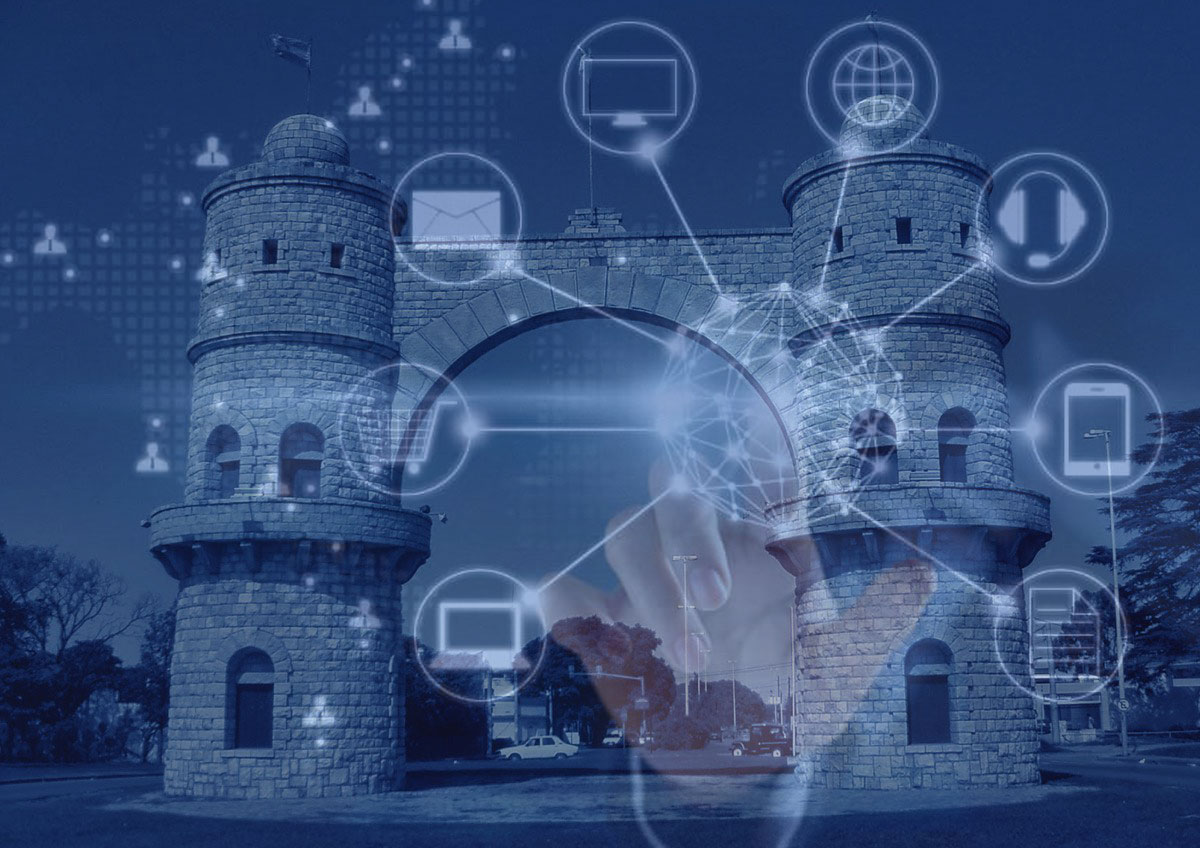
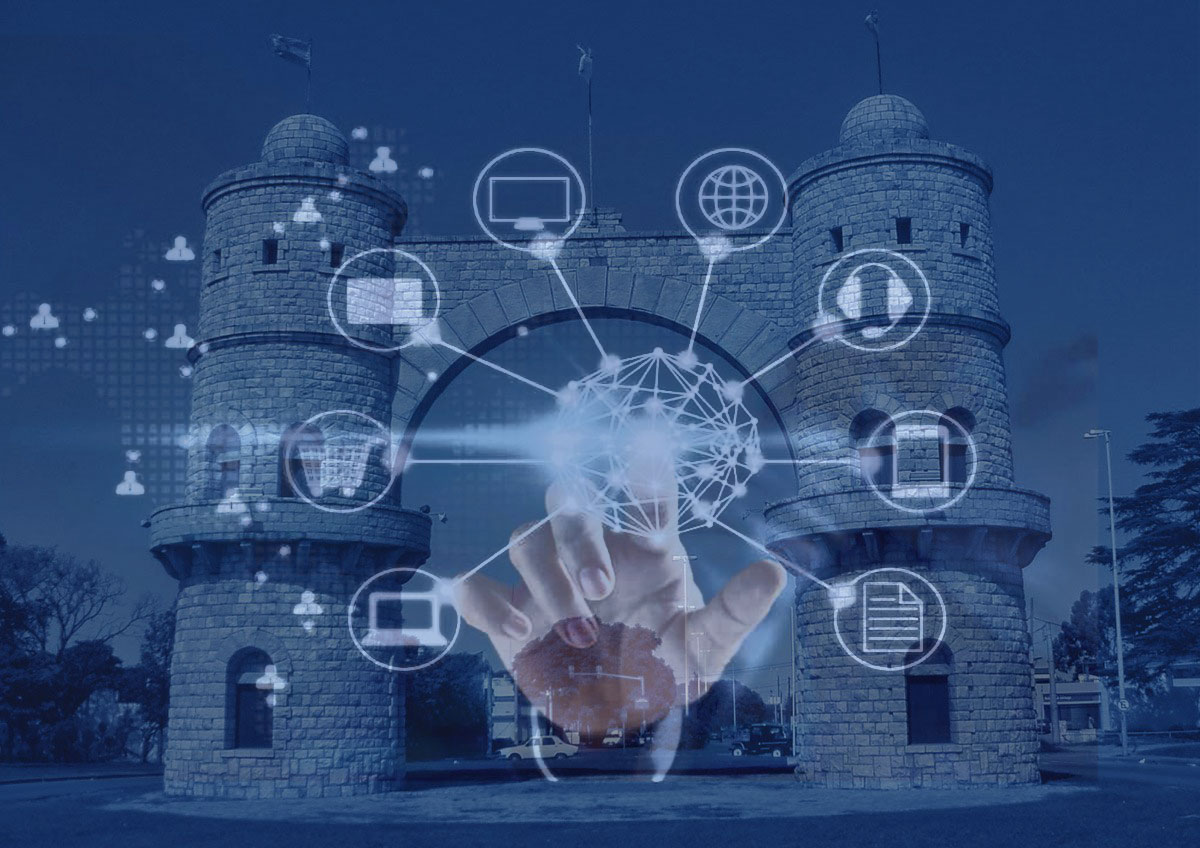
se modifico el icono principal

diff --git a/index.html b/index.html
@@ -19,14 +19,16 @@
         <!-- Navigation-->
         <nav class="navbar navbar-expand-lg navbar-light fixed-top" id="mainNav">
             <div class="container">
-                <a class="navbar-brand js-scroll-trigger" href="#page-top"><img class="img-icono" src="imagenes/icono3.png" alt=""></a>
+                <a class="navbar-brand js-scroll-trigger a-icono" href="#page-top"><img class="img-icono" src="imagenes/icono4.png" alt=""></a>
                 <button class="navbar-toggler navbar-toggler-right" type="button" data-toggle="collapse" data-target="#navbarResponsive" aria-controls="navbarResponsive" aria-expanded="false" aria-label="Toggle navigation">
                     Menu
                     <i class="fas fa-bars"></i>
                 </button>
                 <div class="collapse navbar-collapse" id="navbarResponsive">
                     <ul class="navbar-nav ml-auto">
-                        <li class="nav-item"><a class="nav-link js-scroll-trigger" href="#about">Nosotros</a></li>
+                        <li class="nav-item"><a class="nav-link js-scroll-trigger" href="#page-top">Inicio</a></li>
+                        <li class="nav-item"><a class="nav-link js-scroll-trigger" href="#planes">Nuestros Planes</a></li>
+                        <li class="nav-item"><a class="nav-link js-scroll-trigger" href="#about">Acerca de..</a></li>
                         <li class="nav-item"><a class="nav-link js-scroll-trigger" href="#projects">Nosotros</a></li>
                         <li class="nav-item"><a class="nav-link js-scroll-trigger" href="#signup">Contactos</a></li>
                     </ul>
@@ -36,10 +38,10 @@
         <!-- Masthead-->
         <header class="masthead">
             <div class="container d-flex h-100 align-items-center">
-                <div class="mx-auto text-center">
+                <div class="mx-auto text-center mt-5">
                     <h1 class="mx-auto my-0">CORDOBA WEB</h1>
-                    <h2 class="text-white-50 mx-auto mt-2 mb-5">- Diseño y Desarrollo de Paginas Web -</h2>
-                    <a class="btn btn-primary js-scroll-trigger mt-5" href="#planes"><h4>Nuestros Planes</h4></a>
+                    <h2 class="mx-auto mt-2 mb-5">- Diseño y Desarrollo de Paginas Web -</h2>
+                    <a class="btn btn-primary js-scroll-trigger" href="#planes"><h4>Nuestros Planes</h4></a>
                 </div>
             </div>
         </header>
@@ -101,7 +103,7 @@
                             <div class="d-flex h-100">
                                 <div class="project-text w-100 my-auto text-center text-lg-right">
                                     <h4 class="text-white">La primera Impresión...</h4>
-                                    <p class="mb-0 text-white">El sitio web es la presentación de la empresa que gestionas en los medios digitales. Cada vez que un posible cliente nuevo acude a tu empresa, te preocupas hacer una buena primera impresión. Bueno, con tu sitio web, la situación no es diferente. Debe ser un reflejo inmediato del negocio.</p>
+                                    <p class="mb-0 text-white">Tu pagina web es la presentación de la empresa que gestionas en los medios digitales. Cada vez que un posible cliente nuevo acude a tu empresa, te preocupas de dar una buena primera impresión. Bueno, con tu pagina web, la situación no es diferente. Debe ser un reflejo inmediato del negocio.</p>
                                     <hr class="d-none d-lg-block mb-0 mr-0" />
                                 </div>
                             </div>
@@ -133,7 +135,7 @@
                             <div class="d-flex h-100">
                                 <div class="project-text w-100 my-auto text-center text-lg-right">
                                     <h4 class="text-white">Diseño web responsive</h4>
-                                    <p class="mb-0 text-white">Los sitios que realizamos son compatibles para todos los navegadores y todas las plataformas. Tus paginas web se verán de manera correcta, con un diseño único y se adaptará a la plataforma en la que se visualice ya sea un smartphone, tablet, ultrabook, etc, Manteniendo el mejor diseño y toda la funcionalidad
+                                    <p class="mb-0 text-white">Las paginas web que realizamos son compatibles con todos los navegadores y todas las plataformas. Tu pagina web se verá de manera correcta, con un diseño único y se adaptará a la plataforma en la que se visualice ya sea un smartphone, tablet, ultrabook, etc, Manteniendo el mejor diseño y toda la funcionalidad.
                                          </p>
                                     <hr class="d-none d-lg-block mb-0 mr-0" />
                                 </div>

diff --git a/css/styles.css b/css/styles.css
@@ -2462,7 +2462,7 @@ fieldset:disabled a.btn {
 }
 
 .btn-primary {
-  margin-top: 60px;
+  margin-top: 250px;
   color: rgb(0, 0, 0);
   background-color: #688ef7b0;
   border-color: #f3f7f6cb;
@@ -10240,7 +10240,7 @@ body {
   height: auto;
   min-height: 35rem;
   padding: 15rem 0;
-  background: linear-gradient(to bottom, rgba(0, 0, 0, 0.3) 0%, rgba(0, 0, 0, 0.7) 75%, #000000 100%),
+  background: linear-gradient(to bottom, rgba(27, 27, 27, 0.3) 0%, rgba(27, 27, 27, 0.7) 75%, #131313 100%),
    url("../imagenes/portada/Cordoba7.jpg");
   background-position: center;
   background-repeat: no-repeat;
@@ -10253,7 +10253,7 @@ body {
   font-size: 2.5rem;
   line-height: 2.5rem;
   letter-spacing: 0.8rem;
-  background: linear-gradient(rgba(255, 255, 255, 0.9), rgba(255, 255, 255, 0));
+  background: linear-gradient(rgba(255, 255, 255, 0.95), rgba(255, 255, 255, 0.301));
   -webkit-text-fill-color: transparent;
   -webkit-background-clip: text;
           background-clip: text;
@@ -10261,6 +10261,11 @@ body {
 .masthead h2 {
   max-width: 20rem;
   font-size: 2.5rem;
+  color: #fff;
+  background: linear-gradient(rgba(255, 255, 255, 0.95), rgba(255, 255, 255, 0.301));
+  -webkit-text-fill-color: transparent;
+  -webkit-background-clip: text;
+  background-clip: text;
 }
 
  
@@ -10410,4 +10415,21 @@ body {
 }
 .bg-card {
   background: linear-gradient(215deg, rgba(210, 222, 230, 0.911) 7%, rgba(104, 177, 219, 0.918) 33%, rgba(70, 143, 185, 0.911) 59%, rgba(31, 91, 128, 0.918) 81%, rgba(5, 0, 0, 0.918) 100%);
+}
+
+/*   ------- @MEDIA ------  */
+@media (max-width: 575.98px){
+  .a-icono {
+    padding: 0% !important;
+  }
+  .img-icono {
+    height: 80px;
+  }
+}
+
+/*  ---------@MEDIA  576 A 767 ----------*/
+@media (min-width: 576px) and (max-width: 767.98px){
+  .img-icono {
+    height: 80px;
+  }
 }
